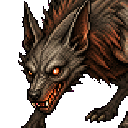
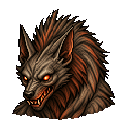
Keep dedicated guardian busts; record brush provenance
- Restore the 13 owner-approved guardian portrait busts and stop the portrait
  builder from regenerating them (fixes the roc fledgling framing regression).
- Commit the Codex brush originals with prompt, SHA-256 and processing
  parameters under spec/assets/turn_order_ink (excluded from export); the
  processor reproduces the shipped textures byte-for-byte.
- Blank line restored after _turn_order_number_badge.

diff --git a/spec/assets/turn_order_ink/README.md b/spec/assets/turn_order_ink/README.md
@@ -1,0 +1,48 @@
+# Turn-order brush strokes: sources and provenance
+
+These five paintings are the originals behind the painted initiative rail
+(`assets/art/ui/turn_order_ink/`). They were generated on 2026-09-30 with
+Codex's built-in image generation tool (`codex exec`, Codex CLI 0.159.2), one
+generation per stroke, and copied here unchanged (1536×1024 RGB PNG, white
+paint on black). They live under `spec/` so they are excluded from exports.
+
+| Source | SHA-256 |
+| --- | --- |
[5 lines of base64/hex data omitted]
+
+Shared prompt (followed by one line per stroke):
+
+> A single bold, confident dry-brush paint stroke made with a wide flat brush,
+> pure white paint on a pure solid black background, no other elements, no
+> text, no shadows, no gradients in the background, high contrast. Visible
+> bristle streaks and dry-brush breakup along the stroke, frayed ragged ends
+> with a few small paint flecks, painterly like the hand-painted UI of the game
+> Clair Obscur: Expedition 33. Landscape 3:2 composition with generous black
+> margin on all sides so no paint touches the image edges.
+
+1. `brush_a`: a wide horizontal stroke, slightly rising to the right, thick in
+   the middle, tapering with a flicked end on the right.
+2. `brush_b`: a horizontal stroke with a heavier loaded start on the left and a
+   dry, streaky, broken tail on the right.
+3. `brush_c`: two overlapping horizontal passes of the brush, one slightly above
+   the other, slightly tilted downward to the right.
+4. `brush_d`: a short, very thick horizontal stroke with a hooked flick at the
+   right end and dry bristle gaps through the middle.
+5. `brush_hero`: a dramatic sweeping diagonal-ish horizontal swash, very bold and
+   energetic, with a thick loaded body, a sharp flick and a few splatter
+   droplets off the tail — the most stylish of the set.
+
+Production textures are derived with:
+
+```bash
+python3 tools/process_turn_order_brushes.py spec/assets/turn_order_ink
+```
+
+The tool maps luminance to alpha (black point 18, white point 225, gamma 0.9),
+crops to the paint with 4% padding, fills RGB with pure white so in-engine
+tinting has no fringes, and resizes to 512 px wide. The rail tints each stroke
+gold (acting unit), teal (allies) or crimson (enemies).

diff --git a/spec/visual_design_system.md b/spec/visual_design_system.md
@@ -69,14 +69,15 @@ floor shadows); the former navy button bodies clashed with it.
   (`tests/relic_offer_fit_probe.gd` checks every relic).
 - **Initiative rail** (`scripts/turn_order_ink.gd`): a painted, Expedition 33
   style column. Each actor sits on a hand-painted dry-brush stroke
-  (`assets/art/ui/turn_order_ink/`, generated with Codex and converted by
-  `tools/process_turn_order_brushes.py`) whose variant, tilt and mirroring are
+  (`assets/art/ui/turn_order_ink/`; Codex-generated originals, prompt and
+  hashes in `spec/assets/turn_order_ink/README.md`) whose variant, tilt and mirroring are
   fixed per actor so the column never looks stamped out. Strokes are gold for
   the acting unit, teal for allies and crimson for enemies. The portrait is cut
   into a slanted, slightly ragged window with a painted highlight edge, and the
-  time value is a heavy outlined numeral painted onto the stroke. Portraits are
-  exact 1:1 head-and-shoulder crops of each unit's current in-game art, rebuilt
-  by `tools/build_turn_order_assets.gd`.
+  time value is a heavy outlined numeral painted onto the stroke. Enemy and
+  player portraits are exact 1:1 head-and-shoulder crops of each unit's current
+  in-game art, rebuilt by `tools/build_turn_order_assets.gd`; guardians keep
+  their dedicated painted busts.
 - **Status placard** (`CombatBoardView._draw_status_text`): room states such as
   "Relic", "Choose Door" and "Victory" in gold with flanking fading rules; the
   top HUD scrim thins toward the centre so the placard stays bright.
